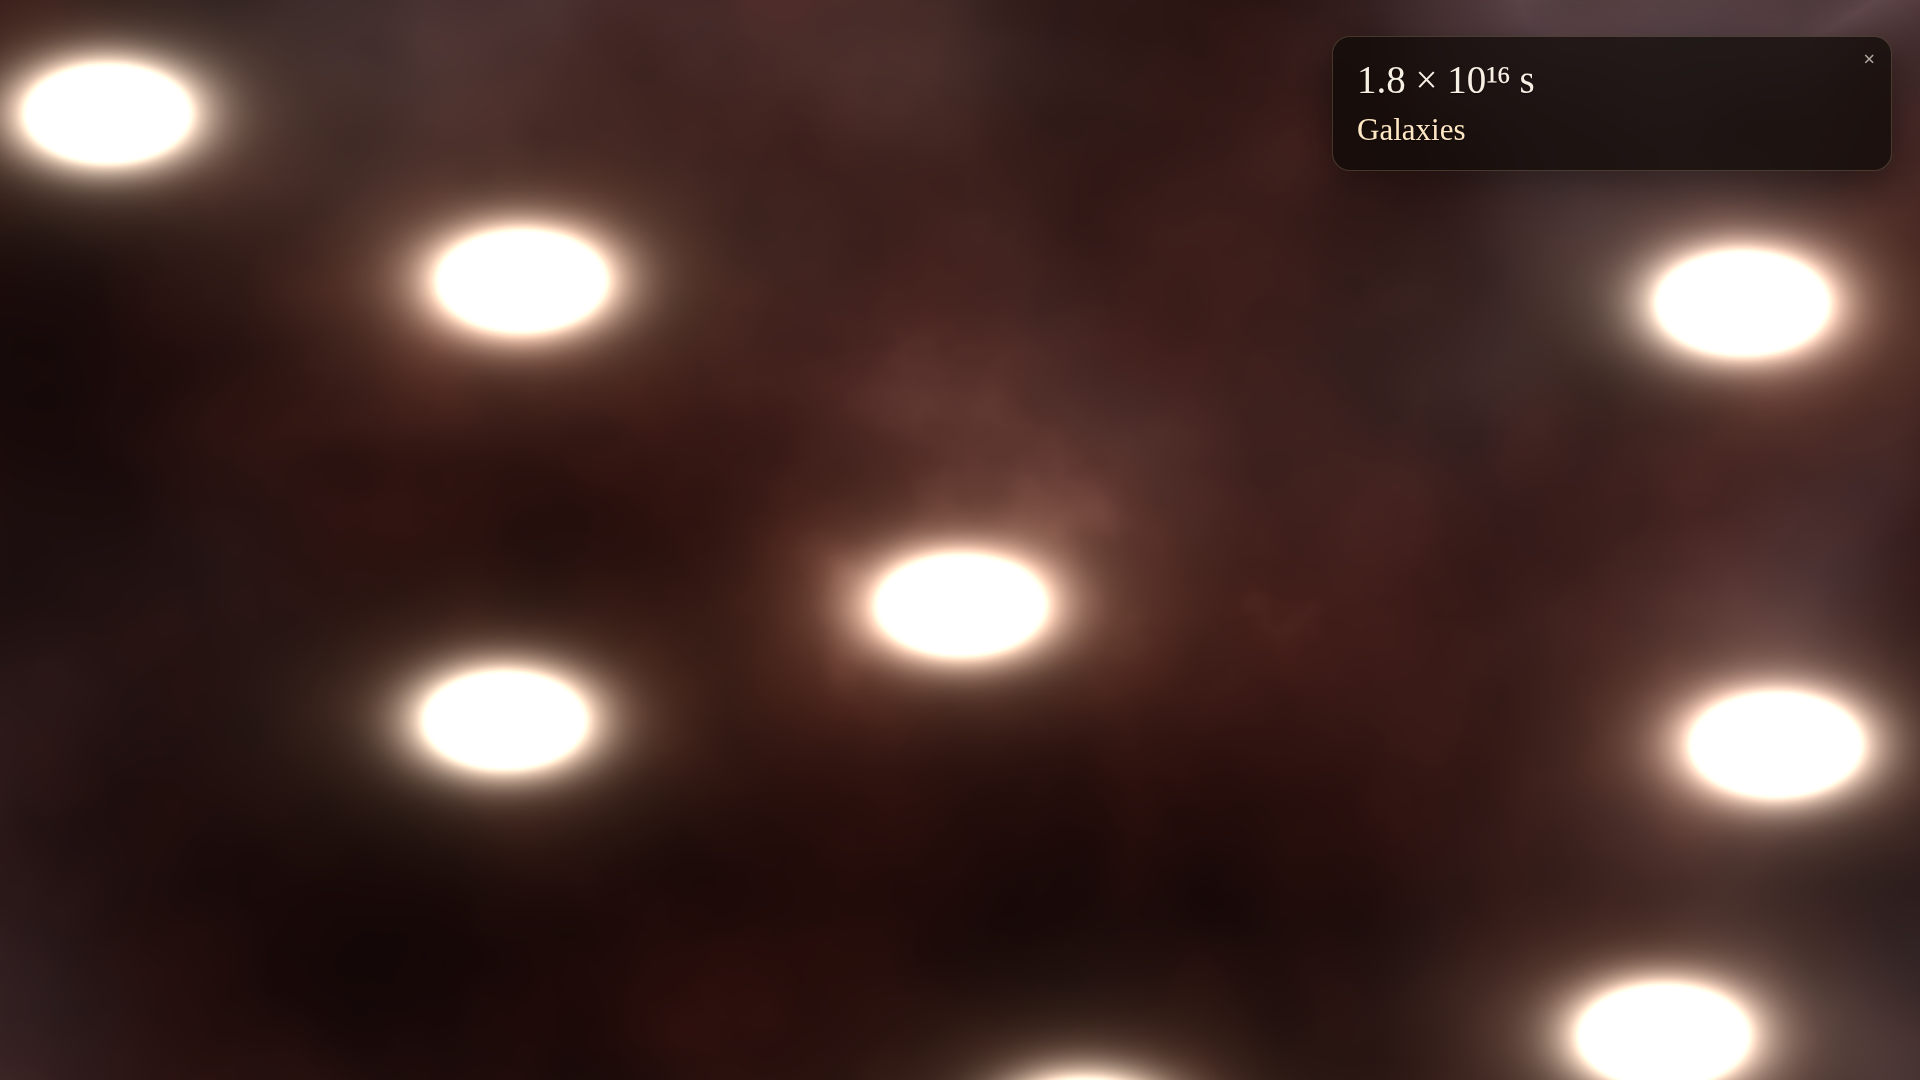
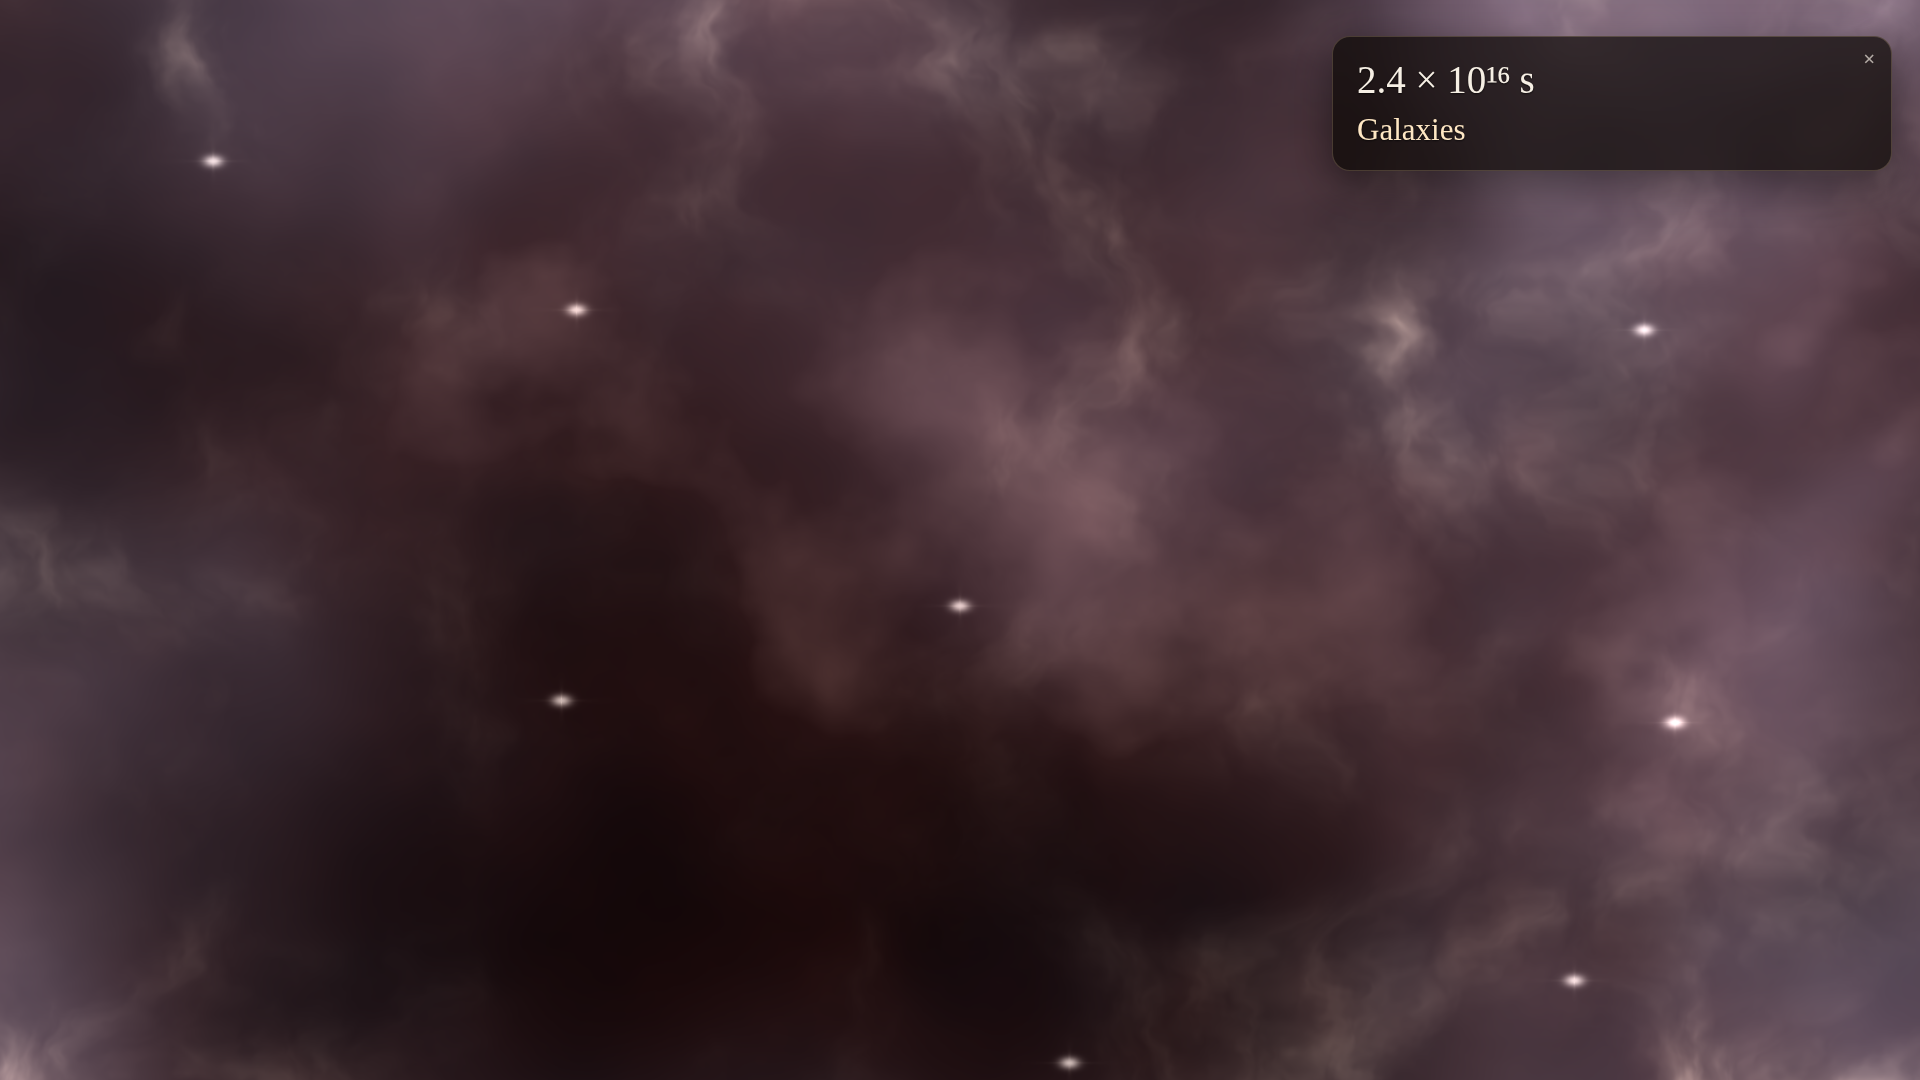
feat: bring the real globe in from Earth's birth (T-0166)
The soup stays on the clock, blue-white into gold with bright cores. The fog thins onto a mottled web, stars are small points, and the Sun is a push through one spiral into a nebula. From B11 the orbit is the real globe, lava then cooling then the living world, and arrival marks the film seen without a fall.

diff --git a/src/world/cosmos/sphere.ts b/src/world/cosmos/sphere.ts
@@ -125,8 +125,8 @@ export class CosmosSphere {
     this.halo.visible = !on;
     this.final.uniforms.disc.value = on ? 0 : 1;
     if (on) {
-      this.bloom.threshold = 0.9;
-      this.bloom.strength = u && u.sun > 0.15 ? 0.16 : 0.05;
+      this.bloom.threshold = 0.62;
+      this.bloom.strength = u && u.stars > 0 && u.galaxy < 0.35 && u.sun < 0.05 ? 0.55 : u && u.sun > 0.05 ? 0.22 : 0.05;
       this.final.uniforms.godrays.value = 0;
       this.final.uniforms.vignette.value = 0;
     } else {
@@ -249,19 +249,23 @@ export class CosmosSphere {
           float shaped = clamp((density - 0.28) / 0.55, 0.0, 1.0);
           float emit = pow(shaped, 1.35);
           float core = pow(shaped, 3.4);
-          vec3 indigo = vec3(0.11, 0.045, 0.20);
-          vec3 amber = vec3(0.20, 0.075, 0.028);
-          vec3 deepRed = vec3(0.26, 0.055, 0.04);
-          vec3 voids = h < 1.0 ? mix(indigo, amber, h) : h < 2.0 ? mix(amber, deepRed, h - 1.0) : deepRed;
-          vec3 blue = vec3(0.50, 0.66, 0.98);
-          vec3 gold = vec3(1.0, 0.74, 0.38);
-          vec3 orange = vec3(0.95, 0.40, 0.10);
-          vec3 red = vec3(0.72, 0.16, 0.07);
-          vec3 hot = h < 1.0 ? mix(blue, gold, h) : h < 2.0 ? mix(gold, orange, h - 1.0) : mix(orange, red, h - 2.0);
-          vec3 col = voids * (0.36 + 0.25 * emit);
-          col += hot * pow(emit, 1.7) * 1.05;
-          float tip = clamp((shaped - 0.62) / 0.38, 0.0, 1.0);
-          col += vec3(1.0, 0.98, 0.94) * core * 0.45 + vec3(1.0, 0.99, 0.96) * pow(tip, 1.15);
+          vec3 indigo = vec3(0.05, 0.08, 0.28);
+          vec3 goldVoid = vec3(0.28, 0.10, 0.015);
+          vec3 deepRed = vec3(0.30, 0.06, 0.035);
+          vec3 blue = vec3(0.82, 0.90, 1.0);
+          vec3 gold = vec3(1.0, 0.78, 0.28);
+          vec3 orange = vec3(1.0, 0.42, 0.08);
+          vec3 red = vec3(0.78, 0.16, 0.05);
+          float warm = clamp((h - 0.2) / 0.9, 0.0, 1.0); warm *= warm;
+          vec3 voids = h < 1.0 ? mix(indigo, goldVoid, warm) : h < 2.0 ? mix(goldVoid, vec3(0.32, 0.08, 0.02), h - 1.0) : deepRed;
+          vec3 hot = h < 1.0 ? mix(blue, gold, warm) : h < 2.0 ? mix(gold, orange, h - 1.0) : mix(orange, red, h - 2.0);
+          vec3 col = voids * (0.7 + 0.4 * emit);
+          col += hot * emit * 0.55;
+          col.r *= mix(0.7, 1.25, warm);
+          col.g *= mix(0.85, 0.82, warm);
+          col.b *= mix(1.45, 0.28, warm);
+          float tip = clamp((shaped - 0.55) / 0.32, 0.0, 1.0);
+          col += vec3(1.0, 0.98, 0.94) * core * 0.35 + vec3(1.0, 0.99, 0.97) * pow(tip, 0.9);
           col += hot * (grain - 0.5) * 0.07 + hot * (dust - 0.5) * 0.045;
           float beforeStars = 1.0 - clamp(stars / 8.0, 0.0, 1.0);
           col += hot * streak(uv, r - q, time) * 0.42 * beforeStars;
@@ -269,33 +273,43 @@ export class CosmosSphere {
           col = mix(col, thick, redFog);
           float webN = fbm(uv * 2.1 + r * 0.35);
           float web = pow(clamp(1.0 - abs(webN * 2.0 - 1.0), 0.0, 1.0), 1.7);
-          vec3 webCol = vec3(0.012, 0.01, 0.025) + vec3(0.95, 0.88, 1.0) * pow(web, 3.2);
-          float open = clear * beforeStars * (1.0 - clamp(galaxy + late, 0.0, 1.0));
-          col = mix(col, webCol, open);
+          vec3 webCol = vec3(0.02, 0.015, 0.04) + vec3(0.85, 0.78, 0.95) * pow(web, 1.55);
+          float clearing = clear * beforeStars * (1.0 - clamp(galaxy + late + dark, 0.0, 1.0));
+          float veil = (1.0 - clearing) * (1.0 - clearing);
+          col = mix(webCol, col, veil);
           col = mix(col, webCol * 0.42, dark);
           col *= gain;
-          float clumps = fbm(uv * 4.6 + vec2(1.7, 0.4));
-          float knot = pow(web, 1.6) * pow(clamp(clumps, 0.0, 1.0), 3.2);
-          col = mix(col, webCol * 0.55, galaxy * 0.8);
-          col += vec3(0.95, 0.88, 0.75) * knot * galaxy * 1.35;
+          float clumps = fbm(uv * 22.0 + r * 0.4);
+          float smear = fbm(uv * 22.0 + vec2(clumps, 0.2) * 1.6);
+          float bead = pow(clamp(smear, 0.0, 1.0), 4.5) * pow(web, 1.15);
+          col = mix(col, webCol * 0.7, galaxy * 0.85);
+          col += vec3(0.92, 0.84, 0.72) * bead * galaxy * 1.6;
+          col += vec3(0.7, 0.62, 0.55) * pow(clamp(fbm(uv * 9.0), 0.0, 1.0), 3.0) * pow(web, 1.4) * galaxy * 0.45;
           for (int i = 0; i < 8; i++) {
             float fi = float(i);
-            float on = clamp((stars - fi) / 0.35, 0.0, 1.0) * (1.0 - sun);
+            float on = clamp((stars - fi) / 0.35, 0.0, 1.0) * (1.0 - sun) * (1.0 - galaxy);
             vec2 jitter = vec2(hash(vec2(fi + 2.0, 5.0)), hash(vec2(fi + 9.0, 3.0)));
-            vec2 pos = mix(vec2(0.50, 0.48), vec2(0.34, 0.32) + jitter * vec2(0.32, 0.36), clamp(fi, 0.0, 1.0));
-            float rr = dot(vUv - pos, vUv - pos);
-            col += vec3(1.0, 0.98, 0.92) * exp(-rr * 5200.0) * on * 2.2;
-            col += vec3(1.0, 0.86, 0.58) * exp(-rr * 980.0) * on * 0.22;
+            vec2 pos = mix(vec2(0.50, 0.48), vec2(0.36, 0.34) + jitter * vec2(0.28, 0.32), clamp(fi, 0.0, 1.0));
+            vec2 dd = vUv - pos;
+            float px = length(dd) * 1400.0;
+            col += vec3(1.0, 0.98, 0.94) * exp(-px * px * 0.18) * on * 2.6;
+            float glint = pow(abs(cos(atan(dd.y, dd.x) * 2.0)), 48.0) * exp(-px * 0.35);
+            col += vec3(1.0, 0.95, 0.85) * glint * on * 0.55;
           }
-          vec2 pc = (vUv - 0.5) * vec2(1.35, 0.9);
+          float push = clamp(late * 1.7, 0.0, 1.0);
+          float scale = mix(0.42, 3.1, push);
+          vec2 pc = (vUv - 0.5) * vec2(1.55, 1.0) / scale;
           float rad = length(pc);
           float ang = atan(pc.y, pc.x);
-          float twist = sin(ang * 2.0 - log(rad + 0.08) * 4.6 + time * 0.08);
-          float arm = pow(clamp(twist * 0.5 + 0.5, 0.0, 1.0), 1.2) * exp(-rad * rad * 2.4);
-          vec3 neb = mix(vec3(0.05, 0.04, 0.07), vec3(0.42, 0.16, 0.06), arm);
-          col = mix(col, col * 0.25 + neb * 0.7, clamp(late, 0.0, 1.0));
-          col += vec3(1.0, 0.96, 0.72) * exp(-rad * rad * 220.0) * sun * 2.0;
-          col += vec3(1.0, 0.55, 0.16) * exp(-rad * rad * 18.0) * sun * 0.18;
+          float arm = pow(0.5 + 0.5 * sin(ang * 2.0 - log(rad + 0.06) * 5.4 + time * 0.05), 1.5);
+          arm *= exp(-rad * rad * 0.45) * (0.25 + 0.75 * (1.0 - exp(-rad * 10.0)));
+          float nebU = clamp((late - 0.28) / 0.42, 0.0, 1.0);
+          float disk = exp(-pc.y * pc.y * mix(2.2, 28.0, nebU)) * exp(-pc.x * pc.x * 0.9);
+          vec3 neb = mix(vec3(0.08, 0.07, 0.12), vec3(0.55, 0.22, 0.07), arm);
+          float journey = clamp(late * 4.0, 0.0, 1.0);
+          col = mix(col, neb * (0.25 + arm * 0.9) + vec3(0.55, 0.2, 0.06) * disk * nebU, journey * (1.0 - sun * 0.35));
+          float sunTight = mix(90.0, 14.0, sun);
+          col += vec3(1.0, 0.96, 0.75) * exp(-rad * rad * sunTight) * sun * 1.5;
           gl_FragColor = vec4(min(col, vec3(1.0)), 1.0);
         }`,
     });

diff --git a/src/world/cosmos/opening.ts b/src/world/cosmos/opening.ts
@@ -8,6 +8,7 @@ import { sharedPlanetSim } from '../../core/planetWeather';
 import { decodeEngineReport, type EngineReport } from '../../core/engineReport';
 import { createBigBangAudio } from '../../audio/bigBang';
 import { CosmosSphere, type SphereInputs } from './sphere';
+import { GLOBE_LAND, GLOBE_LAKE } from '../globe/tile';
 import { CINE, NARRATION, bangAt, bangFlash, cineStage, cosmicSeconds, flashLuma, formatCosmicSeconds, kickOffset, narrationEndFallback, panelFigure, pinHeld, plasmaLook, secondsToCycle, shellOnScreen, shellRadius, subtitleAt, titleDissolve, type CineStage } from './cineBeats';
 
 /**
@@ -104,7 +105,7 @@ body.cine-run header,body.cine-run #status,body.cine-run #interaction,body.cine-
  * then B1–B3 play. The slice holds at the end of B3. Arrival is a later beat.
  * `onBegin` starts the planet boot behind this picture.
  */
-export function createOpening(onPlanet: () => void, onBegin?: () => void): Opening {
+export function createOpening(onPlanet: () => void, onBegin?: () => void, earth?: { show: () => void; ready: () => Promise<void> }): Opening {
   ensureCss();
   document.body.classList.add('cine-run');
   const reduced = matchMedia('(prefers-reduced-motion: reduce)').matches;
@@ -139,6 +140,10 @@ export function createOpening(onPlanet: () => void, onBegin?: () => void): Openi
   let busy = false;
   let panelShown = false;
   let closed = false;
+  let booted = false;
+  let earthOn = false;
+  let arrived = false;
+  let lake0: [number, number, number] | null = null;
   try { closed = localStorage.getItem(PANEL_KEY) === 'closed'; } catch { /* private mode */ }
   const audio = createBigBangAudio();
   const narration = new Audio(NARRATION.file);
@@ -161,6 +166,7 @@ export function createOpening(onPlanet: () => void, onBegin?: () => void): Openi
     root.style.pointerEvents = 'none';
     panel.style.pointerEvents = 'auto';
     onBegin?.();
+    void earth?.ready().then(() => { booted = true; });
     audio.begin();
     void narration.play().catch(() => {});
     sphere = new CosmosSphere(root);
@@ -191,10 +197,11 @@ export function createOpening(onPlanet: () => void, onBegin?: () => void): Openi
     get cycle() { return cycle; },
     get phase() { return phase; },
     step(dt: number) {
-      const cap = CINE.b10End;
-      if (pinned != null) elapsed = pinned;
+      const cap = CINE.b14End;
+      if (pinned != null) elapsed = Math.min(cap, pinned);
       else if (!begun) elapsed = Math.min(CINE.fade, elapsed + Math.max(0, dt));
       else elapsed = Math.min(cap, elapsed + Math.max(0, dt));
+      if (pinned == null && begun && !booted && elapsed >= CINE.b13End) elapsed = CINE.b13End - 0.05;
       if (begun && narrationEndedAt == null && narration.ended && !(Number.isFinite(narration.duration) && narration.duration < 2)) narrationEndedAt = elapsed;
       if (begun && narrationEndedAt == null && elapsed >= narrationEndFallback() + 1 && !(narration.duration > 2)) narrationEndedAt = narrationEndFallback();
       paintDom();
@@ -260,7 +267,22 @@ export function createOpening(onPlanet: () => void, onBegin?: () => void): Openi
     paintPlate(bang, dissolve);
     showRef(stage);
     const figure = panelFigure(elapsed);
-    const showPanel = begun && elapsed >= CINE.panelAt && elapsed <= CINE.b10End && !closed;
+    const showPanel = begun && elapsed >= CINE.panelAt && elapsed <= CINE.b14End && !closed;
+    const onEarth = stage === 'b11' || stage === 'b12' || stage === 'b13' || stage === 'b14';
+    if (onEarth && booted && !earthOn) {
+      earthOn = true;
+      earth?.show();
+      root.style.background = 'transparent';
+      if (sphere) sphere.canvas.style.opacity = '0';
+    }
+    if (earthOn) tintGlobe(stage, elapsed);
+    if (stage === 'b14' && earthOn && !arrived) {
+      arrived = true;
+      window.dispatchEvent(new Event('cinematic:complete'));
+      const save = (window as unknown as { __borealSave?: { markBigBangSeen?: () => void } }).__borealSave;
+      save?.markBigBangSeen?.();
+      onPlanet();
+    }
     if (showPanel && !panelShown) { panelShown = true; panel.classList.add('pop'); }
     panel.hidden = !showPanel;
     if (showPanel) {
@@ -286,6 +308,26 @@ export function createOpening(onPlanet: () => void, onBegin?: () => void): Openi
     } else ref.style.display = 'none';
     if (jpg) { if (still.dataset.file !== jpg) { still.dataset.file = jpg; still.src = jpg; } still.style.display = 'block'; }
     else still.style.display = 'none';
+  }
+
+  function tintGlobe(stage: CineStage, t: number) {
+    const land = GLOBE_LAND.uLandTint.value;
+    const shallow = GLOBE_LAKE.shallow.value;
+    const deep = GLOBE_LAKE.deep.value;
+    if (!lake0) lake0 = [shallow.r, shallow.g, shallow.b];
+    if (stage === 'b11') {
+      land.setRGB(1.35, 0.32, 0.08);
+      shallow.setRGB(0.62, 0.14, 0.04);
+      deep.setRGB(0.32, 0.05, 0.02);
+    } else if (stage === 'b12') {
+      const u = Math.min(1, Math.max(0, (t - CINE.b11End) / (CINE.b12End - CINE.b11End)));
+      land.setRGB(1.35 + (1 - 1.35) * u, 0.32 + (0.85 - 0.32) * u, 0.08 + (0.7 - 0.08) * u);
+      shallow.setRGB(0.62 + (lake0[0] - 0.62) * u, 0.14 + (lake0[1] - 0.14) * u, 0.04 + (lake0[2] - 0.04) * u);
+      deep.setRGB(0.32 + (lake0[0] - 0.32) * u * 0.5, 0.05 + (lake0[1] - 0.05) * u * 0.5, 0.02 + (lake0[2] - 0.02) * u * 0.5);
+    } else {
+      land.setRGB(1, 1, 1);
+      shallow.setRGB(lake0[0], lake0[1], lake0[2]);
+    }
   }
 
   function setRolling(node: HTMLElement, text: string) {

diff --git a/src/main.ts b/src/main.ts
@@ -627,7 +627,7 @@ function frame(time: number) { const frameStart = performance.now(); latestPlane
 void openForestPlanet(dayAt(clock0.worldSec), hourAt(clock0.worldSec)).finally(() => requestAnimationFrame(frame));
 { const q = new URLSearchParams(location.search), loading = createLoading(); // startup: warm-up + resource probe behind the loading screen
   const cine = startView(location.search) === 'sphere' && !q.has('bench') && !q.has('nomenu');
-  void startup(view, loading, { reprobe: q.has('reprobe'), skipProbe: q.has('bench') || q.has('noprobe') }).catch(e => console.warn('startup', e)).then(() => q.has('noprobe') || cine ? undefined : inpage?.prewarm().then(r => console.log('INPAGE prewarm ' + JSON.stringify(r)))).catch(e => console.warn('inpage prewarm', e)).finally(() => { void loading.finish(); if (!q.has('bench') && !q.has('nomenu')) { const opened = startView(location.search); if (opened === 'globe') { if (!inpage?.enter()) toGlobe(); } else if (opened === 'sphere') opening = createOpening(() => { /* B14 arrival. This slice holds at the bang. */ }, () => { void inpage?.prewarm(); }); else openStart(); } }); } // bare load: the film, not a skip to the planet. The click starts the boot. ?start=globe skips to the planet. ?noprobe: ground capture skips the Ultra bench and the globe prewarm
+  void startup(view, loading, { reprobe: q.has('reprobe'), skipProbe: q.has('bench') || q.has('noprobe') }).catch(e => console.warn('startup', e)).then(() => q.has('noprobe') || cine ? undefined : inpage?.prewarm().then(r => console.log('INPAGE prewarm ' + JSON.stringify(r)))).catch(e => console.warn('inpage prewarm', e)).finally(() => { void loading.finish(); if (!q.has('bench') && !q.has('nomenu')) { const opened = startView(location.search); if (opened === 'globe') { if (!inpage?.enter()) toGlobe(); } else if (opened === 'sphere') opening = createOpening(() => { /* Already on the orbit. No fall. */ }, () => { void inpage?.prewarm(); }, { show: () => { inpage?.enter(); }, ready: () => inpage?.whenBooted() ?? Promise.resolve() }); else openStart(); } }); } // bare load: the film, not a skip to the planet. The click starts the boot. ?start=globe skips to the planet. ?noprobe: ground capture skips the Ultra bench and the globe prewarm
 
 // ?bench=1: per-tier and per-feature cost after streaming settles (logs `BENCH ...` lines to the console).
 if (new URLSearchParams(location.search).has('bench')) void (async () => {

diff --git a/src/world/cosmos/cineBeats.ts b/src/world/cosmos/cineBeats.ts
@@ -35,7 +35,12 @@ export const CINE = {
   /** First stars, then galaxies along the web. */
   b9End: 74,
   /** Spiral, nebula, then the Sun. Linear years begin as the Sun lights. */
-  b10End: 82,
+  b10End: 85,
+  /** Earth is a real globe from here: lava, then cooling, then a living world, then the orbit. */
+  b11End: 92,
+  b12End: 100,
+  b13End: 108,
+  b14End: 116,
   /** B2 inhale after narration `ended`. */
   b2: 0.8,
   /** Bed eases from −6 dB to −18 dB across this, then on toward 0 dB. */
@@ -201,7 +206,7 @@ export function bangFlash(t: number, narrationEndedAt: number, reduced: boolean)
   return cap * (1 - x / CINE.flashHalf);
 }
 
-export type CineStage = 'fade' | 'wait' | 'b1' | 'b2' | 'b3' | 'b4' | 'b5' | 'b6' | 'b7' | 'b8' | 'b9' | 'b10' | 'hold';
+export type CineStage = 'fade' | 'wait' | 'b1' | 'b2' | 'b3' | 'b4' | 'b5' | 'b6' | 'b7' | 'b8' | 'b9' | 'b10' | 'b11' | 'b12' | 'b13' | 'b14' | 'hold';
 export function cineStage(t: number, begun: boolean, narrationEndedAt: number | null): CineStage {
   if (!begun) return t < CINE.fade ? 'fade' : 'wait';
   const end = narrationEndedAt ?? Number.POSITIVE_INFINITY;
@@ -215,6 +220,10 @@ export function cineStage(t: number, begun: boolean, narrationEndedAt: number | 
   if (t < CINE.b8End) return 'b8';
   if (t < CINE.b9End) return 'b9';
   if (t < CINE.b10End) return 'b10';
+  if (t < CINE.b11End) return 'b11';
+  if (t < CINE.b12End) return 'b12';
+  if (t < CINE.b13End) return 'b13';
+  if (t < CINE.b14End) return 'b14';
   return 'hold';
 }
 
@@ -257,7 +266,7 @@ export function panelFigure(t: number): string {
   if (t >= CINE.b6End && t < CINE.b7End) return 'Temperature ≈ 3000 K';
   if (t >= CINE.b8End && t < CINE.b8End + 4) return 'First stars';
   if (t >= CINE.b8End + 4 && t < CINE.b9End) return 'Galaxies';
-  if (t >= 80 && t < CINE.b10End) return 'The Sun';
+  if (t >= 80 && t < 82) return 'The Sun';
   return '';
 }
 
@@ -347,7 +356,7 @@ export type PlasmaLook = {
   stars: number; galaxy: number; sun: number; late: number;
 };
 export function plasmaLook(t: number): PlasmaLook {
-  const held = Math.min(t, CINE.b10End);
+  const held = Math.min(t, CINE.b11End);
   return {
     heat: plasmaHeat(held),
     gain: plasmaGain(held),

diff --git a/tests/cine-beats.test.ts b/tests/cine-beats.test.ts
@@ -90,7 +90,12 @@ test('B2 and B3 key off narration ended, and the flash is the impact peak', () =
   assert.equal(cineStage(63, true, end), 'b8');
   assert.equal(cineStage(68, true, end), 'b9');
   assert.equal(cineStage(78, true, end), 'b10');
-  assert.equal(cineStage(82, true, end), 'hold');
+  assert.equal(cineStage(82, true, end), 'b10');
+  assert.equal(cineStage(88, true, end), 'b11');
+  assert.equal(cineStage(96, true, end), 'b12');
+  assert.equal(cineStage(104, true, end), 'b13');
+  assert.equal(cineStage(112, true, end), 'b14');
+  assert.equal(cineStage(116, true, end), 'hold');
   assert.ok(plasmaGain(30) > plasmaGain(40) && plasmaGain(40) > plasmaGain(50));
   assert.ok(kickOffset(0.1, false).y > 10);
   assert.equal(kickOffset(-0.1, false).y, 0);

diff --git a/src/world/globe/inpage.ts b/src/world/globe/inpage.ts
@@ -326,6 +326,8 @@ const DEV = new URLSearchParams(location.search).has('inpagedev'); // dev hooks 
       if (!globe) { void loadGlobe().then(() => api.enter()); return true; }
       prep = null; hold.hold(); globe.resumeWorkers(); lastT = performance.now(); toGlobe(true); return true;
     },
+    /** The planet grid is final. The film waits on this before the living world gives way to arrival. */
+    whenBooted() { return loadGlobe().then(g => g.bootP); },
     /** VR ground step: leave the planet view and stand the mama at the forest edge. */
     showForest(at: { x: number; z: number; yaw: number }) {
       host.place(at.x, at.z, at.yaw);
